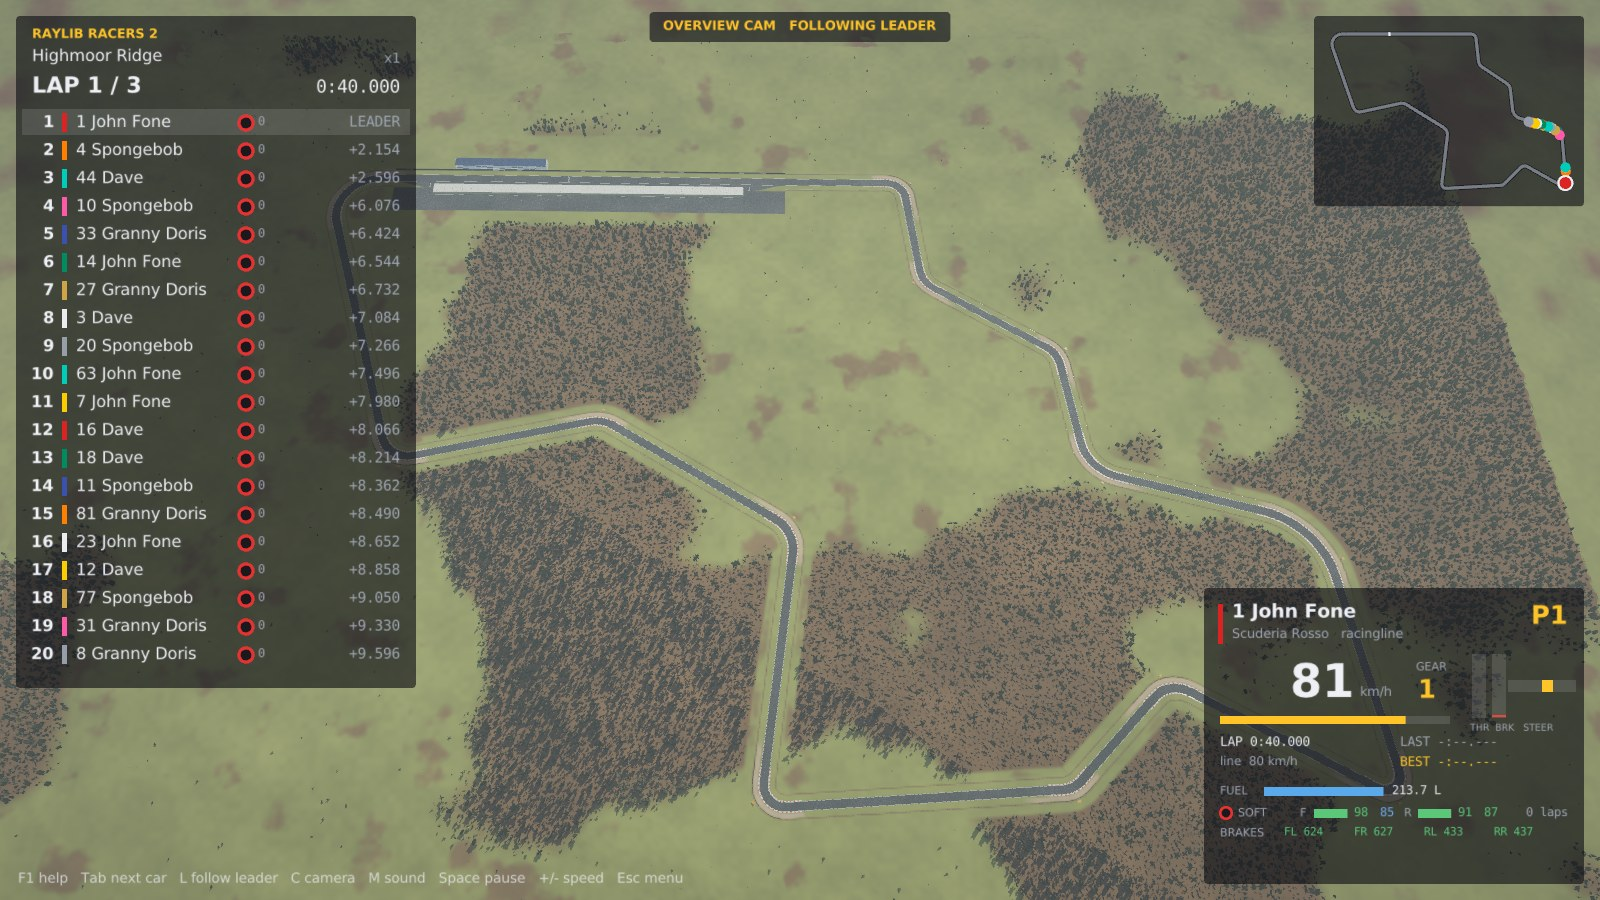
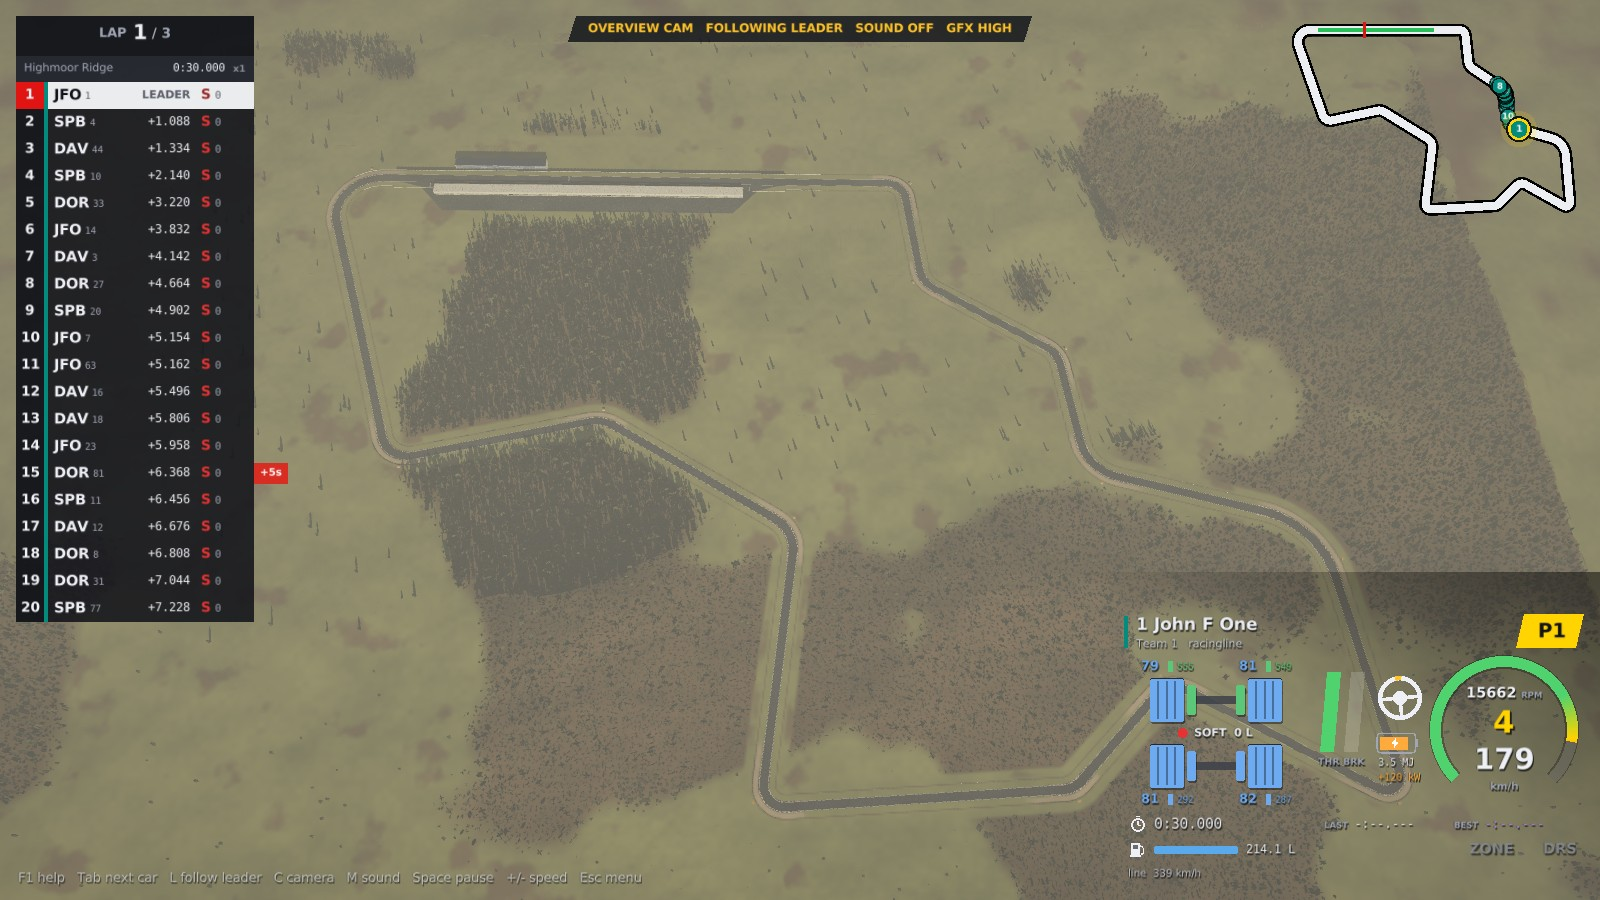
README: race screenshots in the sunny haze look with the Mercedes livery, and the race HUD; viewer flags --look, --stock and --sun-turn
Claude-Session: https://claude.ai/code/session_01HmCYMBNHAscPEUem7JU6Ng

diff --git a/src/core/config.cpp b/src/core/config.cpp
@@ -79,6 +79,9 @@ std::string usage(const char* prog, bool viewer) {
              "  --speed X             start at X times real time\n"
              "  --camera N            0 follow, 1 cinematic, 2 TV, 3 helicopter, 4 top down, 5 orbit, 6 overview, 7 T-cam, 8 nose, 9 director\n"
              "  --quality N           graphics 0 low, 1 medium, 2 high (default)\n"
+             "  --look N              lighting: 0 partly cloudy, 1 mud road, 2 overcast, 3 sunny haze (RR2 viewer; K cycles)\n"
+             "  --sun-turn DEG        turn the sky and its sun about the vertical (RR2 viewer; ; and ' turn it live)\n"
+             "  --stock N             every team drives stock car N, 1..11 (2 is the Mercedes in its own livery)\n"
              "  --focus N             follow car N (0 = first --car); default: whoever leads\n"
              "  --screenshot FILE     save a screenshot at --at seconds of race time, then exit\n"
              "  --at SECONDS\n"
@@ -185,6 +188,9 @@ bool parseArgs(int argc, char** argv, RaceConfig& cfg, bool viewer, bool& wantHe
             else if (viewer && a == "--speed") cfg.timeScale = std::stof(need(i, a));
             else if (viewer && a == "--camera") cfg.camera = std::stoi(need(i, a));
             else if (viewer && a == "--quality") cfg.quality = std::clamp(std::stoi(need(i, a)), 0, 2);
+            else if (viewer && a == "--look") cfg.look = std::clamp(std::stoi(need(i, a)), 0, 3);
+            else if (viewer && a == "--sun-turn") cfg.sunTurn = std::stof(need(i, a));
+            else if (viewer && a == "--stock") cfg.stockCar = std::clamp(std::stoi(need(i, a)), 0, 11);
             else if (viewer && a == "--focus") cfg.focus = std::stoi(need(i, a));
             else if (viewer && a == "--no-menu") cfg.noMenu = true;
             else if (viewer && a == "--mute") cfg.mute = true;

diff --git a/apps/viewer2/renderer2.cpp b/apps/viewer2/renderer2.cpp
@@ -263,18 +263,21 @@ void Renderer::stepEffects(const rr::Race& race, float dt) {
     p_->updateSmoke(race, dt > 0 ? dt : -1.0f);  // (shot mode calls this as it runs the race up to the saved frame)
 }
 
-void Renderer::adjustLighting(bool nextSky, float turn, float exposureFactor) {
+void Renderer::setLook(int look) {
     static const char* skies[] = {"kloofendal_partly_cloudy", "mud_road", "overcast_soil"};
     Impl& p = *p_;
-    if (nextSky) {
-        std::string err;
-        // four looks: the three skies, then the partly cloudy sky again as a hazy low-sun look
-        const int look = (p.skyIdx + 1) % 4;
-        if (p.gr.loadSky(p.assets + "/sky", skies[look == 3 ? 0 : look], &err)) {
-            p.skyIdx = look;
-            p.gr.haze = look == 3 ? 1.0f : 0.0f;
-        }
+    look = ((look % 4) + 4) % 4;
+    std::string err;
+    // four looks: the three skies, then the partly cloudy sky again as a hazy low-sun look
+    if (p.gr.loadSky(p.assets + "/sky", skies[look == 3 ? 0 : look], &err)) {
+        p.skyIdx = look;
+        p.gr.haze = look == 3 ? 1.0f : 0.0f;
     }
+}
+
+void Renderer::adjustLighting(bool nextSky, float turn, float exposureFactor) {
+    Impl& p = *p_;
+    if (nextSky) setLook(p.skyIdx + 1);
     p.gr.skyYaw += turn;
     p.gr.exposure = std::clamp(p.gr.exposure * exposureFactor, 0.2f, 3.0f);
 }

diff --git a/apps/viewer/main.cpp b/apps/viewer/main.cpp
@@ -219,6 +219,10 @@ int main(int argc, char** argv) {
         neutralTeams(liveries);  // Team 1, Team 2 ...: the teams' colours are the player's to pick
         loadStockCars(paths.assets);
 #endif
+#ifdef RR2_RENDERER
+        if (cfg.stockCar > 0 && stockPresent(cfg.stockCar))
+            for (CarLivery& l : liveries) l.model = cfg.stockCar, l.color = stockColour(cfg.stockCar);
+#endif
         setLiveryTable(liveries);
     }
     const int liveryCount = std::max(1, (int)liveryTable().size());
@@ -413,6 +417,10 @@ int main(int argc, char** argv) {
         hud->settle = shotMode;
         if (!renderer->init(race->track(), (unsigned)cfg.seed, paths.assets, &err)) return false;
         hud->init(race->track(), paths.assets);
+#ifdef RR2_RENDERER
+        if (cfg.look) renderer->setLook(cfg.look);
+        if (cfg.sunTurn != 0) renderer->adjustLighting(false, cfg.sunTurn * 3.14159265f / 180.0f, 1.0f);
+#endif
         sceneTrack = race->config().track;
         return true;
     };

diff --git a/src/core/config.hpp b/src/core/config.hpp
@@ -81,6 +81,9 @@ struct RaceConfig {
     float screenshotAt = -1;   // race time; the viewer exits after saving
     int camera = 0;
     int quality = 2;           // viewer graphics: 0 low, 1 medium, 2 high
+    int look = 0;              // viewer 2 lighting: 0 partly cloudy, 1 mud road, 2 overcast, 3 sunny haze
+    float sunTurn = 0;         // viewer 2: turns the sky and its sun about the vertical, degrees
+    int stockCar = 0;          // viewer 2: every team drives this stock 2013 car (1..11; 2 is the Mercedes), 0 = as set up
     int focus = -1;            // car index to follow (-1: the leader)
     bool noMenu = false;       // start racing straight away
     bool mute = false;

diff --git a/apps/viewer2/renderer2.hpp b/apps/viewer2/renderer2.hpp
@@ -42,6 +42,7 @@ public:
     // Sky and lighting, as in rr_trackview: the next sky (and its sun), a turn of the sky about the
     // vertical (radians) and a factor on the exposure.
     void adjustLighting(bool nextSky, float turn, float exposureFactor);
+    void setLook(int look);  // 0 partly cloudy, 1 mud road, 2 overcast, 3 sunny haze
 
     Camera3D camera{};
 

diff --git a/README.md b/README.md
@@ -35,7 +35,7 @@ of times real time for experiments, or in a raylib 3D viewer to watch them.
 - **A V8 sound**: eight firings a cycle through a recorded F1 exhaust response, with
   gearshift effects and the odd pop.
 
-![Start of a race on Highmoor Ridge, TV camera (Raylib Racers 2)](docs/images/rr2_start.jpg)
+![Highmoor Ridge in the sunny haze look, follow camera (Raylib Racers 2)](docs/images/rr2_start.jpg)
 
 ## What is in the box
 
@@ -93,6 +93,10 @@ of times real time for experiments, or in a raylib 3D viewer to watch them.
 | ![Testing: telemetry dashboard while scrubbing a run](docs/images/rr2_testing.jpg) | ![Testing: track and events window with the delta to the best lap](docs/images/rr2_testing_track.jpg) |
 | ![Race end: lap chart](docs/images/rr2_lapchart.jpg) | ![Ardennes Ring: the Kemmel-style straight under a footbridge](docs/images/rr2_spa_kemmel.jpg) |
 | ![Ardennes Ring: paddock, garages, grandstand and a village skyline](docs/images/rr2_spa_paddock.jpg) | ![Ardennes Ring: Ruisseau, concrete walls and forest](docs/images/rr2_spa_eau_rouge.jpg) |
+
+The race HUD (the race screenshots above are in the sunny haze look, `K` in the viewer): the timing tower, the see-through track map and the car panel.
+
+![Race HUD: timing tower, track map and the car panel with rev gauge, tyre and brake temperatures, pedals, steering, KERS and DRS](docs/images/rr2_hud.jpg)
 
 ## Build
 
@@ -502,6 +506,7 @@ The V8 sound plays through a recorded F1 exhaust response (`assets/sound`); `M` 
 ./build/rr_viewer2 --test --no-menu --car racingline  # a testing run with the telemetry screens
 ./build/rr_viewer2 --no-menu --camera 7              # a race with the director camera
 ./build/rr_viewer2 --screenshot shot.png --at 40 --no-menu   # a screenshot of the race at 40 s
+./build/rr_viewer2 --screenshot shot.png --at 40 --no-menu --look 3 --stock 2 --sun-turn 250   # in the sunny haze look, every team in the Mercedes livery, the sun turned 250 degrees
 ```
 
 The materials and skies come from `tools/import_assets.py` (CC0, see
